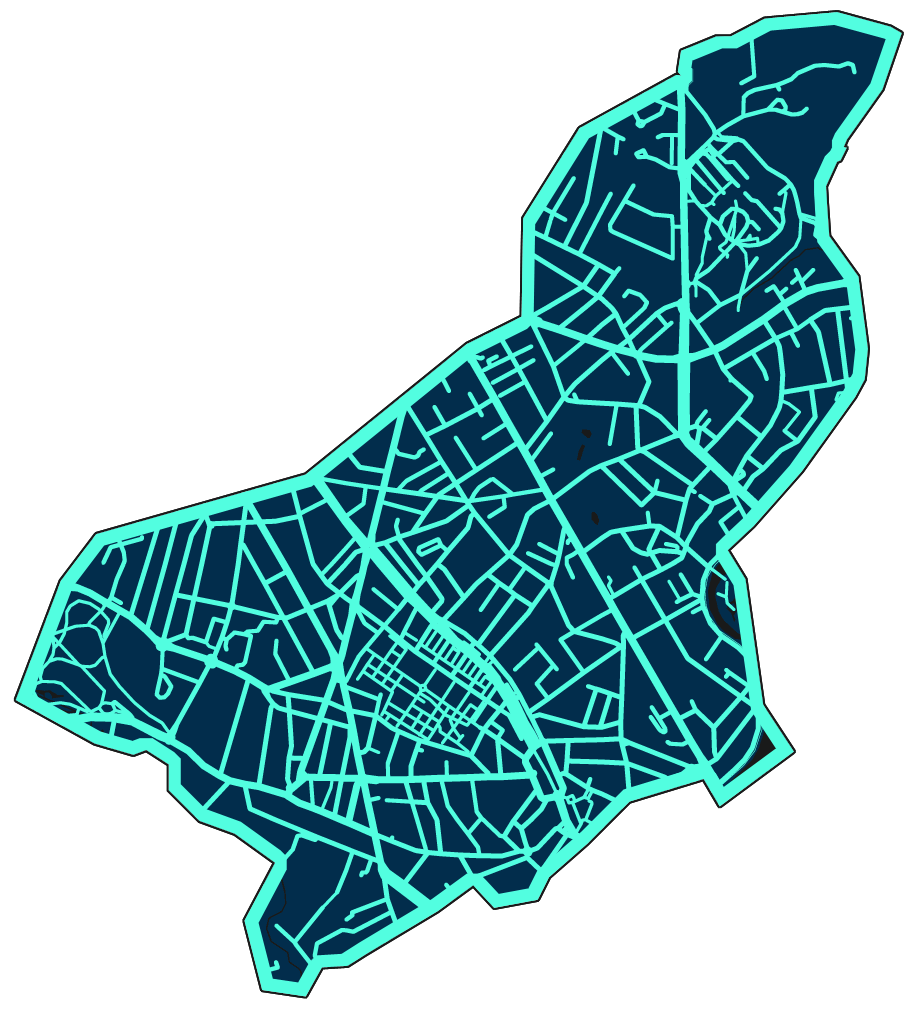
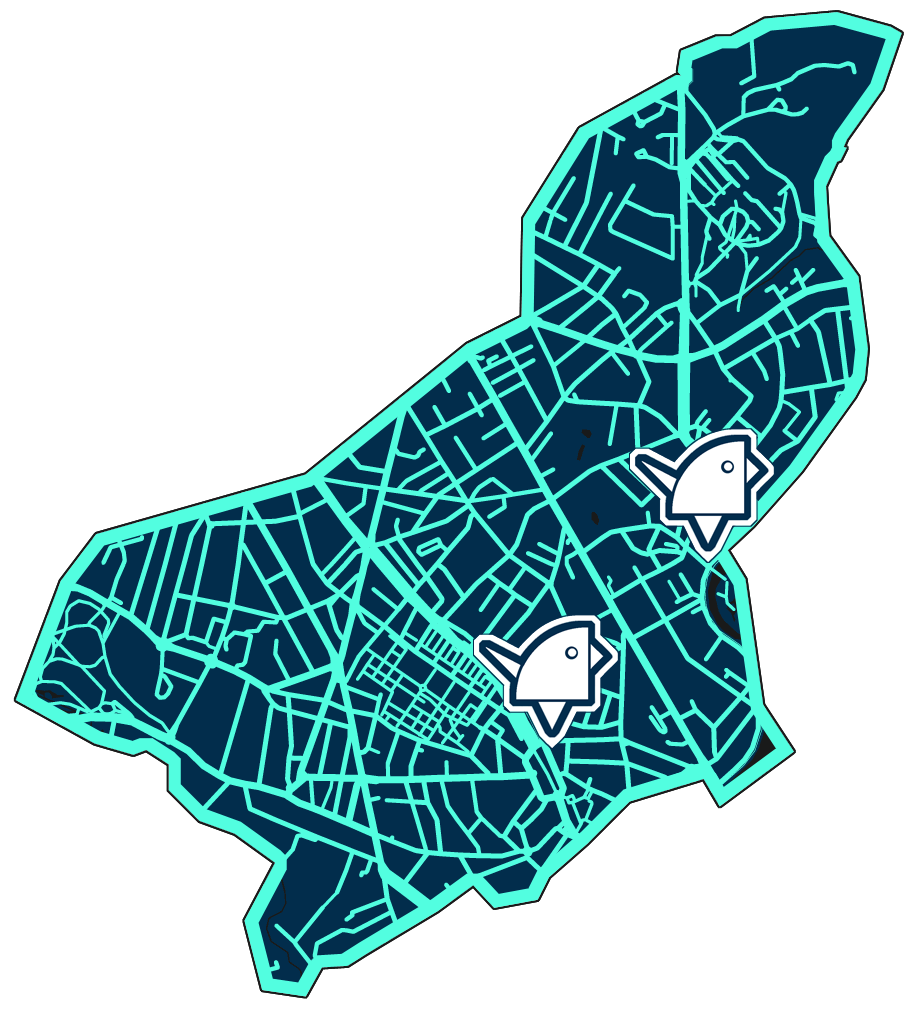
jymbar & tsemeng

Changed region(s): [[0.6681, 0.3947, 0.8503, 0.5465], [0.5163, 0.5769, 0.6681, 0.7287]]

diff --git a/index.html b/index.html
@@ -205,9 +205,37 @@
 
 
               <div id="felixtxt" class="container-fluid">
-                <h2 id="numerobis">Nous n'avons pas encore de partenaires dans ce quartier !</h2>
-                <h2 id="numerobis">Vous souhaitez devenir partenaire et rejoindre la karte Kuikui ?
-                  N'hésitez pas à <a href="mailto:kuikui.contact@gmail.com">nous contacter</a> !</h2>
+
+                <div class="row">
+                  <div class="col-3">
+                    <a href="https://www.kuikui.fr/tse-meng"><img src="assets/media/partenaires/tsemeng.png"/></a>
+                  </div>
+                  <div class="col-9">
+                    <a style="text-decoration:none;" href="https://www.kuikui.fr/tse-meng"><h2> TSE MENG </h2></a>
+                    <p> Création de sac et accessoires </p>
+                    <div class="socialHub">
+                      <a href="https://facebook.com/tsemeng.maroquinerie.artisanale/" target="_blank"><img src="assets/media/icons/facebook.png"/></a>
+                      <a href="https://instagram.com/tsemeng.maroquinerie/" target="_blank"><img src="assets/media/icons/instagram.png"/></a>
+                      <a href="mailto:tsemeng.maroquinerie@gmail.com"><img src="assets/media/icons/mail.png"/></a>
+                    </div>
+                  </div>
+                </div>
+
+                <div class="row">
+                  <div class="col-3">
+                    <a href="https://www.kuikui.fr/jym-bar"><img src="assets/media/partenaires/jymbar.png"/></a>
+                  </div>
+                  <div class="col-9">
+                    <a style="text-decoration:none;" href="https://www.kuikui.fr/jym-bar"><h2> JYM BAR </h2></a>
+                    <p> Bar conceptuel </p>
+                    <div class="socialHub">
+                      <a href="https://facebook.com/jymnantes/" target="_blank"><img src="assets/media/icons/facebook.png"/></a>
+                      <a href="https://instagram.com/jymnantes/" target="_blank"><img src="assets/media/icons/instagram.png"/></a>
+                      <a href="https://youtube.com/channel/UCDjKHEfnGNAAhzjSBHb6HZw" target="_blank"><img src="assets/media/icons/youtube.png"/></a>
+                    </div>
+                  </div>
+                </div>
+
               </div>
 
 

diff --git a/safari&ios.html b/safari&ios.html
@@ -231,9 +231,37 @@
 
 
               <div id="felixtxt" class="container-fluid">
-                <h2 id="numerobis">Nous n'avons pas encore de partenaires dans ce quartier !</h2>
-                <h2 id="numerobis">Vous souhaitez devenir partenaire et rejoindre la karte Kuikui ?
-                  N'hésitez pas à <a href="mailto:kuikui.contact@gmail.com">nous contacter</a> !</h2>
+
+                <div class="row">
+                  <div class="col-3">
+                    <a href="https://www.kuikui.fr/tse-meng"><img src="assets/media/partenaires/tsemeng.png"/></a>
+                  </div>
+                  <div class="col-9">
+                    <a style="text-decoration:none;" href="https://www.kuikui.fr/tse-meng"><h2> TSE MENG </h2></a>
+                    <p> Création de sac et accessoires </p>
+                    <div class="socialHub">
+                      <a href="https://facebook.com/tsemeng.maroquinerie.artisanale/" target="_blank"><img src="assets/media/icons/facebook.png"/></a>
+                      <a href="https://instagram.com/tsemeng.maroquinerie/" target="_blank"><img src="assets/media/icons/instagram.png"/></a>
+                      <a href="mailto:tsemeng.maroquinerie@gmail.com"><img src="assets/media/icons/mail.png"/></a>
+                    </div>
+                  </div>
+                </div>
+
+                <div class="row">
+                  <div class="col-3">
+                    <a href="https://www.kuikui.fr/jym-bar"><img src="assets/media/partenaires/jymbar.png"/></a>
+                  </div>
+                  <div class="col-9">
+                    <a style="text-decoration:none;" href="https://www.kuikui.fr/jym-bar"><h2> JYM BAR </h2></a>
+                    <p> Bar conceptuel </p>
+                    <div class="socialHub">
+                      <a href="https://facebook.com/jymnantes/" target="_blank"><img src="assets/media/icons/facebook.png"/></a>
+                      <a href="https://instagram.com/jymnantes/" target="_blank"><img src="assets/media/icons/instagram.png"/></a>
+                      <a href="https://youtube.com/channel/UCDjKHEfnGNAAhzjSBHb6HZw" target="_blank"><img src="assets/media/icons/youtube.png"/></a>
+                    </div>
+                  </div>
+                </div>
+
               </div>
 
 
